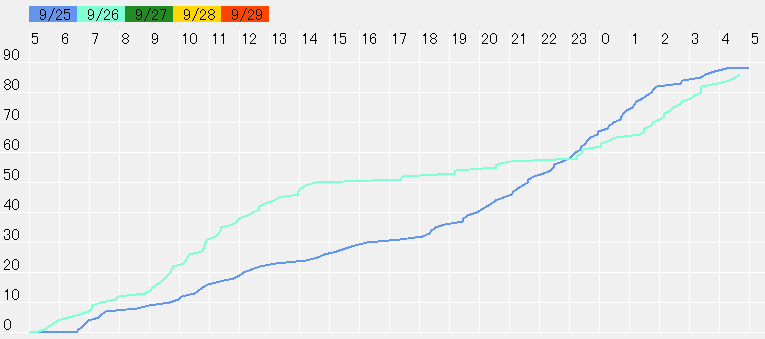
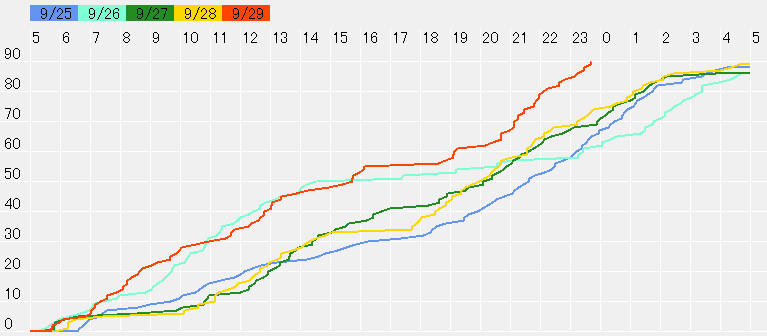
グラフデータ差し替え 凸速度の上限をデータの最大値に変更

diff --git a/CranBattleDefeatLogViewer/Form1.cs b/CranBattleDefeatLogViewer/Form1.cs
@@ -304,7 +304,12 @@ namespace CranBattleDefeatLogViewer
             var starttime = prevtime;
             Font fnt = new Font("MS UI Gothic", 12);
 
-            const int attackheight = 30;
+            const int graphheight = 300;
+
+            IEnumerable<List<PointF>> pointrawlists = AttackSpeedList(datelist);
+            int max = (int)(Math.Ceiling (pointrawlists.Max(n => n.Select(m => m.Y).Max())));
+
+            int attackheight = 0 < max ? graphheight / max : 30;
 
             var dispday = start;
             for (int i = 0; i < 5; i++)
@@ -318,26 +323,26 @@ namespace CranBattleDefeatLogViewer
             for (int i = 0; i < 25; i++)
             {
                 int x = ox + i * 30;
-                g.DrawLine(Pens.White, x, 32, x, 32 + 300);
+                g.DrawLine(Pens.White, x, 32, x, 32 + 32 + graphheight);
 
                 g.DrawString(((i + 5) % 24).ToString(), fnt, Brushes.Black, x, 32);
             }
 
-            for (int i = 0; i < 10; i++)
+            for (int i = 0; i < max + 1; i++)
             {
                 int ly = y + i * attackheight + 16;
                 g.DrawLine(Pens.White, 0, ly, 25 * 30 + 32, ly);
 
-                g.DrawString(((9 - i)).ToString(), fnt, Brushes.Black, 4, ly - 16);
+                g.DrawString(((max - i)).ToString(), fnt, Brushes.Black, 4, ly - 16);
 
             }
 
             var day = 0;
-            foreach (var pointrawlist in AttackSpeedList(datelist))
+            foreach (var pointrawlist in pointrawlists)
             {
                 using (var pen = new Pen(colors[day], 2))
                 {
-                    var drawline = pointrawlist.Select(n => new Point((int) (ox + n.X), (int)( y + 16 + (9 - n.Y) * attackheight))).ToArray();
+                    var drawline = pointrawlist.Select(n => new Point((int) (ox + n.X), (int)( y + 16 + graphheight - n.Y * attackheight))).ToArray();
                     g.DrawLines(pen, drawline);
                 }
 
